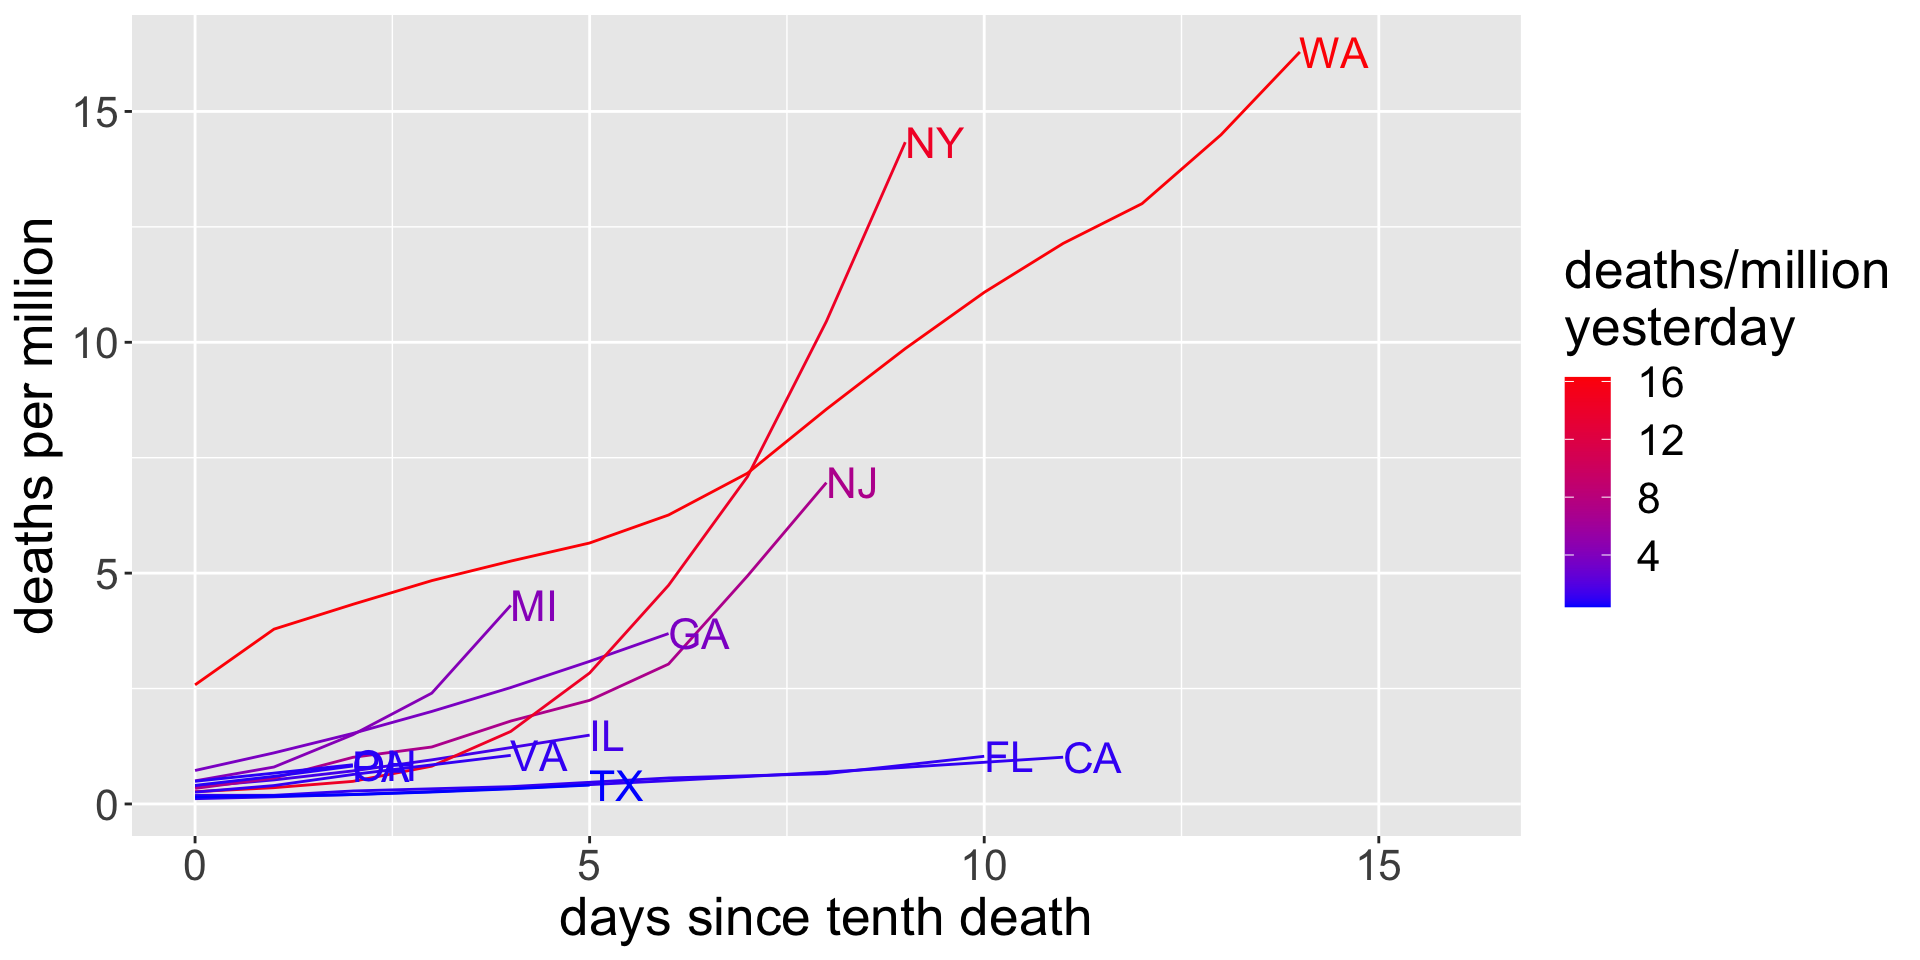
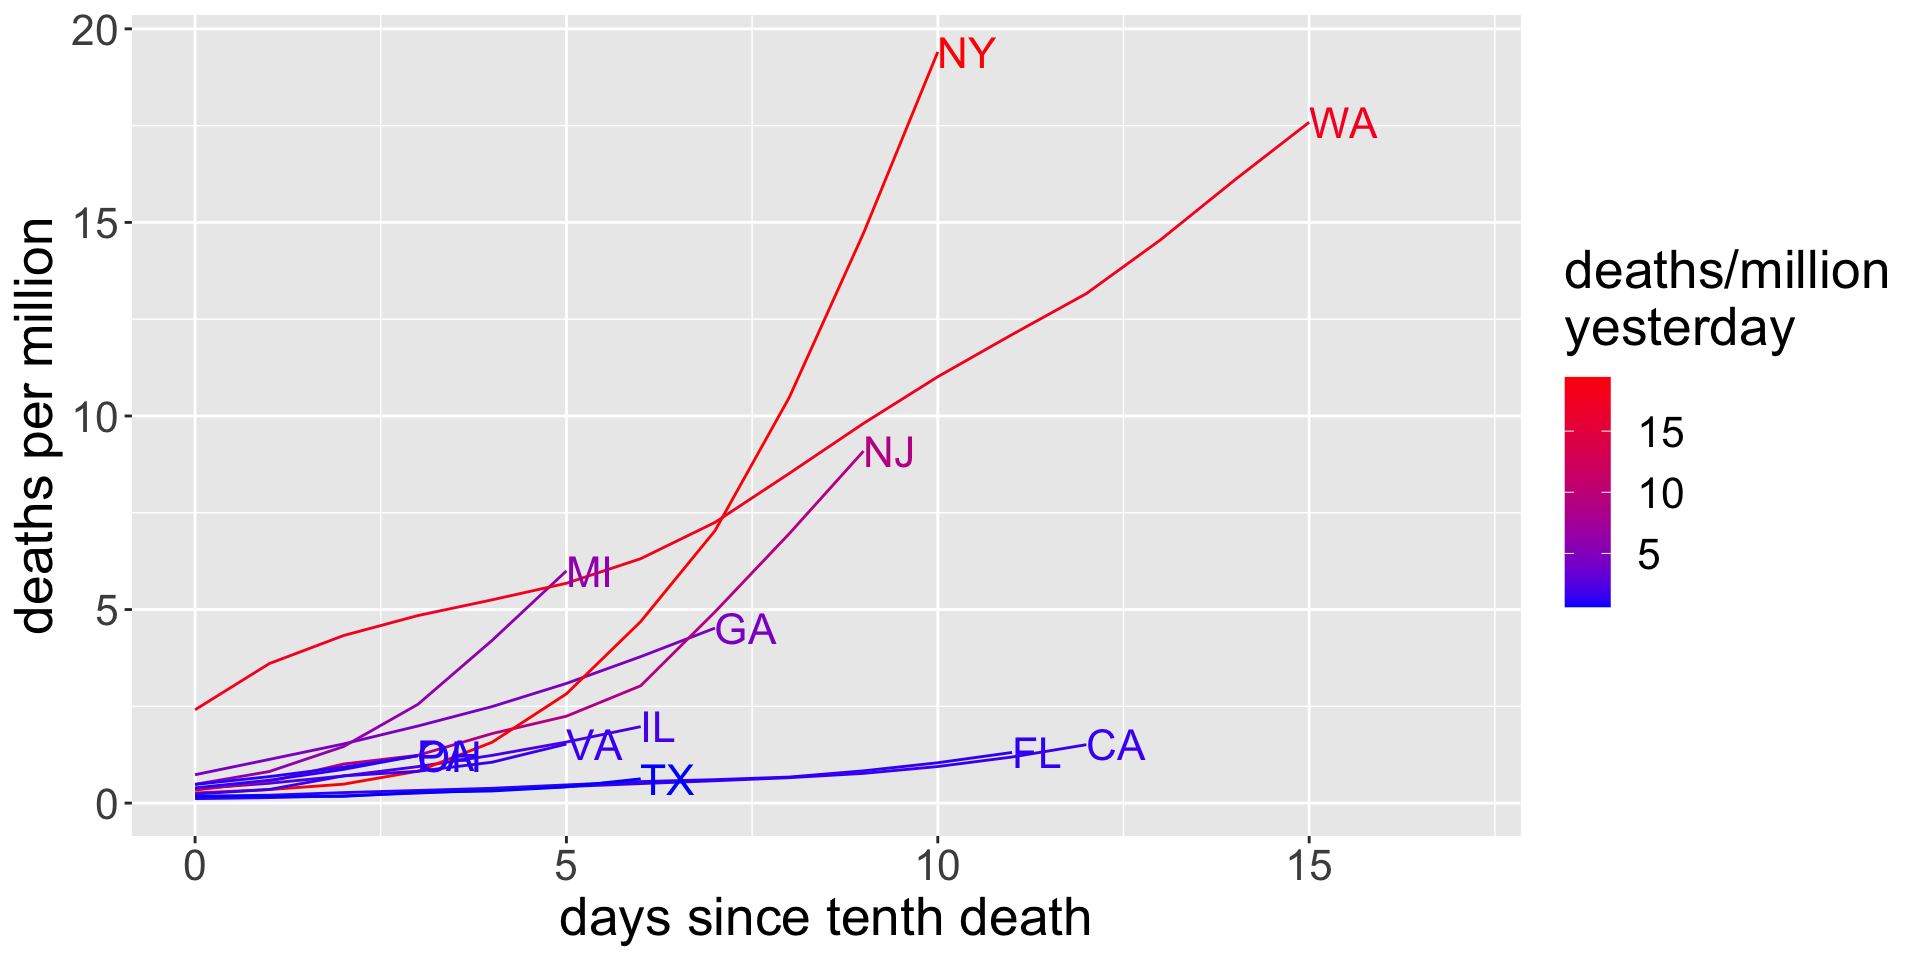
Update US data.

diff --git a/content/post/2020-03-21-covid19deaths.html b/content/post/2020-03-21-covid19deaths.html
@@ -73,11 +73,11 @@ tags: ["COVID-19", "coronavirus"]
 <p><img src="/post/2020-03-21-covid19deaths_files/figure-html/us-plot-1.png" width="960" /></p>
 <ul>
 <li>For <strong>Ohio</strong>, <strong>Virginia</strong>, <strong>Pennsylvania</strong> and <strong>Michigan</strong>, it’s too early to say.</li>
-<li><strong>Washington</strong> state is at 16 deaths per million 14 days after its tenth death. At this point, Spain was at 7 deaths per million. This is absolutely dire. One bright light for Washington is that they have avoided exponential growth in the death rate, but the linear growth they have is still a massive problem.</li>
-<li><strong>New York</strong> is at 14 deaths per million 9 days after its tenth death. At this point, Spain was at 2 deaths per million. New York looks like it will get much worse than Washington.</li>
-<li><strong>New Jersey</strong> is at 7 deaths per million 8 days after its tenth death; better than New York but not good at all. At this point, Spain was at 2 deaths per million.</li>
+<li><strong>Washington</strong> state is at 18 deaths per million 15 days after its tenth death. At this point, Spain was at 8 deaths per million. This is absolutely dire. One bright light for Washington is that they have avoided exponential growth in the death rate, but the linear growth they have is still a massive problem.</li>
+<li><strong>New York</strong> is at 19 deaths per million 10 days after its tenth death. At this point, Spain was at 3 deaths per million. New York looks like it will get much worse than Washington.</li>
+<li><strong>New Jersey</strong> is at 9 deaths per million 9 days after its tenth death; better than New York but not good at all. At this point, Spain was at 2 deaths per million.</li>
 <li><strong>Georgia</strong> and <strong>Illinois</strong> are near where New York was at equivalent stages, but with flatter trajectories. But New York is a low bar. To be barely better than New York is to be headed for disaster.</li>
-<li>11 days after its tenth death, <strong>California</strong> is at approximately 1 death per million. This is similar to where Italy was at this stage, but California’s curve is flatter than Italy’s, so they are on course to avoid the explosion in cases that happened there.</li>
+<li>12 days after its tenth death, <strong>California</strong> is at approximately 2 deaths per million. This is similar to where Italy was at this stage, but California’s curve is flatter than Italy’s, so they are on course to avoid the explosion in cases that happened there.</li>
 <li><strong>Texas</strong> and <strong>Florida</strong> look very like California with a few days’ lag.</li>
 </ul>
 </div>

diff --git a/public/2020/03/26/covid19deathspercapita/index.html b/public/2020/03/26/covid19deathspercapita/index.html
@@ -372,11 +372,11 @@
 <p><img src="/post/2020-03-21-covid19deaths_files/figure-html/us-plot-1.png" width="960" /></p>
 <ul>
 <li>For <strong>Ohio</strong>, <strong>Virginia</strong>, <strong>Pennsylvania</strong> and <strong>Michigan</strong>, it’s too early to say.</li>
-<li><strong>Washington</strong> state is at 16 deaths per million 14 days after its tenth death. At this point, Spain was at 7 deaths per million. This is absolutely dire. One bright light for Washington is that they have avoided exponential growth in the death rate, but the linear growth they have is still a massive problem.</li>
-<li><strong>New York</strong> is at 14 deaths per million 9 days after its tenth death. At this point, Spain was at 2 deaths per million. New York looks like it will get much worse than Washington.</li>
-<li><strong>New Jersey</strong> is at 7 deaths per million 8 days after its tenth death; better than New York but not good at all. At this point, Spain was at 2 deaths per million.</li>
+<li><strong>Washington</strong> state is at 18 deaths per million 15 days after its tenth death. At this point, Spain was at 8 deaths per million. This is absolutely dire. One bright light for Washington is that they have avoided exponential growth in the death rate, but the linear growth they have is still a massive problem.</li>
+<li><strong>New York</strong> is at 19 deaths per million 10 days after its tenth death. At this point, Spain was at 3 deaths per million. New York looks like it will get much worse than Washington.</li>
+<li><strong>New Jersey</strong> is at 9 deaths per million 9 days after its tenth death; better than New York but not good at all. At this point, Spain was at 2 deaths per million.</li>
 <li><strong>Georgia</strong> and <strong>Illinois</strong> are near where New York was at equivalent stages, but with flatter trajectories. But New York is a low bar. To be barely better than New York is to be headed for disaster.</li>
-<li>11 days after its tenth death, <strong>California</strong> is at approximately 1 death per million. This is similar to where Italy was at this stage, but California’s curve is flatter than Italy’s, so they are on course to avoid the explosion in cases that happened there.</li>
+<li>12 days after its tenth death, <strong>California</strong> is at approximately 2 deaths per million. This is similar to where Italy was at this stage, but California’s curve is flatter than Italy’s, so they are on course to avoid the explosion in cases that happened there.</li>
 <li><strong>Texas</strong> and <strong>Florida</strong> look very like California with a few days’ lag.</li>
 </ul>
 </div>

diff --git a/public/2018/09/30/rcsetseed/index.html b/public/2018/09/30/rcsetseed/index.html
@@ -332,7 +332,7 @@ rbernoulli(5, 0.7)
 #&gt; {
 #&gt;     stats::runif(n) &gt; (1 - p)
 #&gt; }
-#&gt; &lt;bytecode: 0x7f8859373010&gt;
+#&gt; &lt;bytecode: 0x7fe43384c610&gt;
 #&gt; &lt;environment: namespace:purrr&gt;</code></pre>
 <p>Ah, it seems Hadley just wrapped <code>runif()</code>; hence, because <code>set.seed()</code> works with <code>runif()</code>, it works with his implementation of <code>purrr::rbernoulli()</code>.</p>
 </div>
@@ -405,8 +405,8 @@ rorybernoulli(6, 0.7)
 #&gt; # A tibble: 2 x 6
 #&gt;   expression                            min  median `itr/sec` mem_alloc `gc/sec`
 #&gt;   &lt;bch:expr&gt;                        &lt;bch:t&gt; &lt;bch:t&gt;     &lt;dbl&gt; &lt;bch:byt&gt;    &lt;dbl&gt;
-#&gt; 1 purrr::rbernoulli(1e+06, p = 0.5) 27.97ms 28.55ms      33.9   11.45MB    10.4 
-#&gt; 2 rorybernoulli(1e+06, p = 0.5)      8.75ms  9.11ms     107.     3.82MB     8.95</code></pre>
+#&gt; 1 purrr::rbernoulli(1e+06, p = 0.5)  27.4ms 28.54ms      34.2   11.45MB    10.5 
+#&gt; 2 rorybernoulli(1e+06, p = 0.5)       8.4ms  9.08ms     108.     3.82MB     8.83</code></pre>
 <p>Wow, <code>rorybernoulli()</code> is three times faster! I wasn’t expecting that. Perhaps it’s because there’s a quicker way of generating a Bernoulli random number than by going through a uniform random number (as <code>purrr::rbernoulli()</code> does). It’s also three times as efficient with memory; the memory and time improvements probably have the same underlying reason. The point of me writing this post was to share this <code>get_seed()</code> thing with people so that they can use <code>set.seed()</code> with <code>Rcpp</code> and the like; <code>purrr::rbernoulli()</code> was just a cool example of a non-base RNG that popped into my head. Maybe I should submit a pull request to <code>purrr</code>!</p>
 </div>
 

diff --git a/content/post/2018-09-30-rcsetseed.html b/content/post/2018-09-30-rcsetseed.html
@@ -26,7 +26,7 @@ rbernoulli(5, 0.7)
 #&gt; {
 #&gt;     stats::runif(n) &gt; (1 - p)
 #&gt; }
-#&gt; &lt;bytecode: 0x7f8859373010&gt;
+#&gt; &lt;bytecode: 0x7fe43384c610&gt;
 #&gt; &lt;environment: namespace:purrr&gt;</code></pre>
 <p>Ah, it seems Hadley just wrapped <code>runif()</code>; hence, because <code>set.seed()</code> works with <code>runif()</code>, it works with his implementation of <code>purrr::rbernoulli()</code>.</p>
 </div>
@@ -99,7 +99,7 @@ rorybernoulli(6, 0.7)
 #&gt; # A tibble: 2 x 6
 #&gt;   expression                            min  median `itr/sec` mem_alloc `gc/sec`
 #&gt;   &lt;bch:expr&gt;                        &lt;bch:t&gt; &lt;bch:t&gt;     &lt;dbl&gt; &lt;bch:byt&gt;    &lt;dbl&gt;
-#&gt; 1 purrr::rbernoulli(1e+06, p = 0.5) 27.97ms 28.55ms      33.9   11.45MB    10.4 
-#&gt; 2 rorybernoulli(1e+06, p = 0.5)      8.75ms  9.11ms     107.     3.82MB     8.95</code></pre>
+#&gt; 1 purrr::rbernoulli(1e+06, p = 0.5)  27.4ms 28.54ms      34.2   11.45MB    10.5 
+#&gt; 2 rorybernoulli(1e+06, p = 0.5)       8.4ms  9.08ms     108.     3.82MB     8.83</code></pre>
 <p>Wow, <code>rorybernoulli()</code> is three times faster! I wasn’t expecting that. Perhaps it’s because there’s a quicker way of generating a Bernoulli random number than by going through a uniform random number (as <code>purrr::rbernoulli()</code> does). It’s also three times as efficient with memory; the memory and time improvements probably have the same underlying reason. The point of me writing this post was to share this <code>get_seed()</code> thing with people so that they can use <code>set.seed()</code> with <code>Rcpp</code> and the like; <code>purrr::rbernoulli()</code> was just a cool example of a non-base RNG that popped into my head. Maybe I should submit a pull request to <code>purrr</code>!</p>
 </div>
